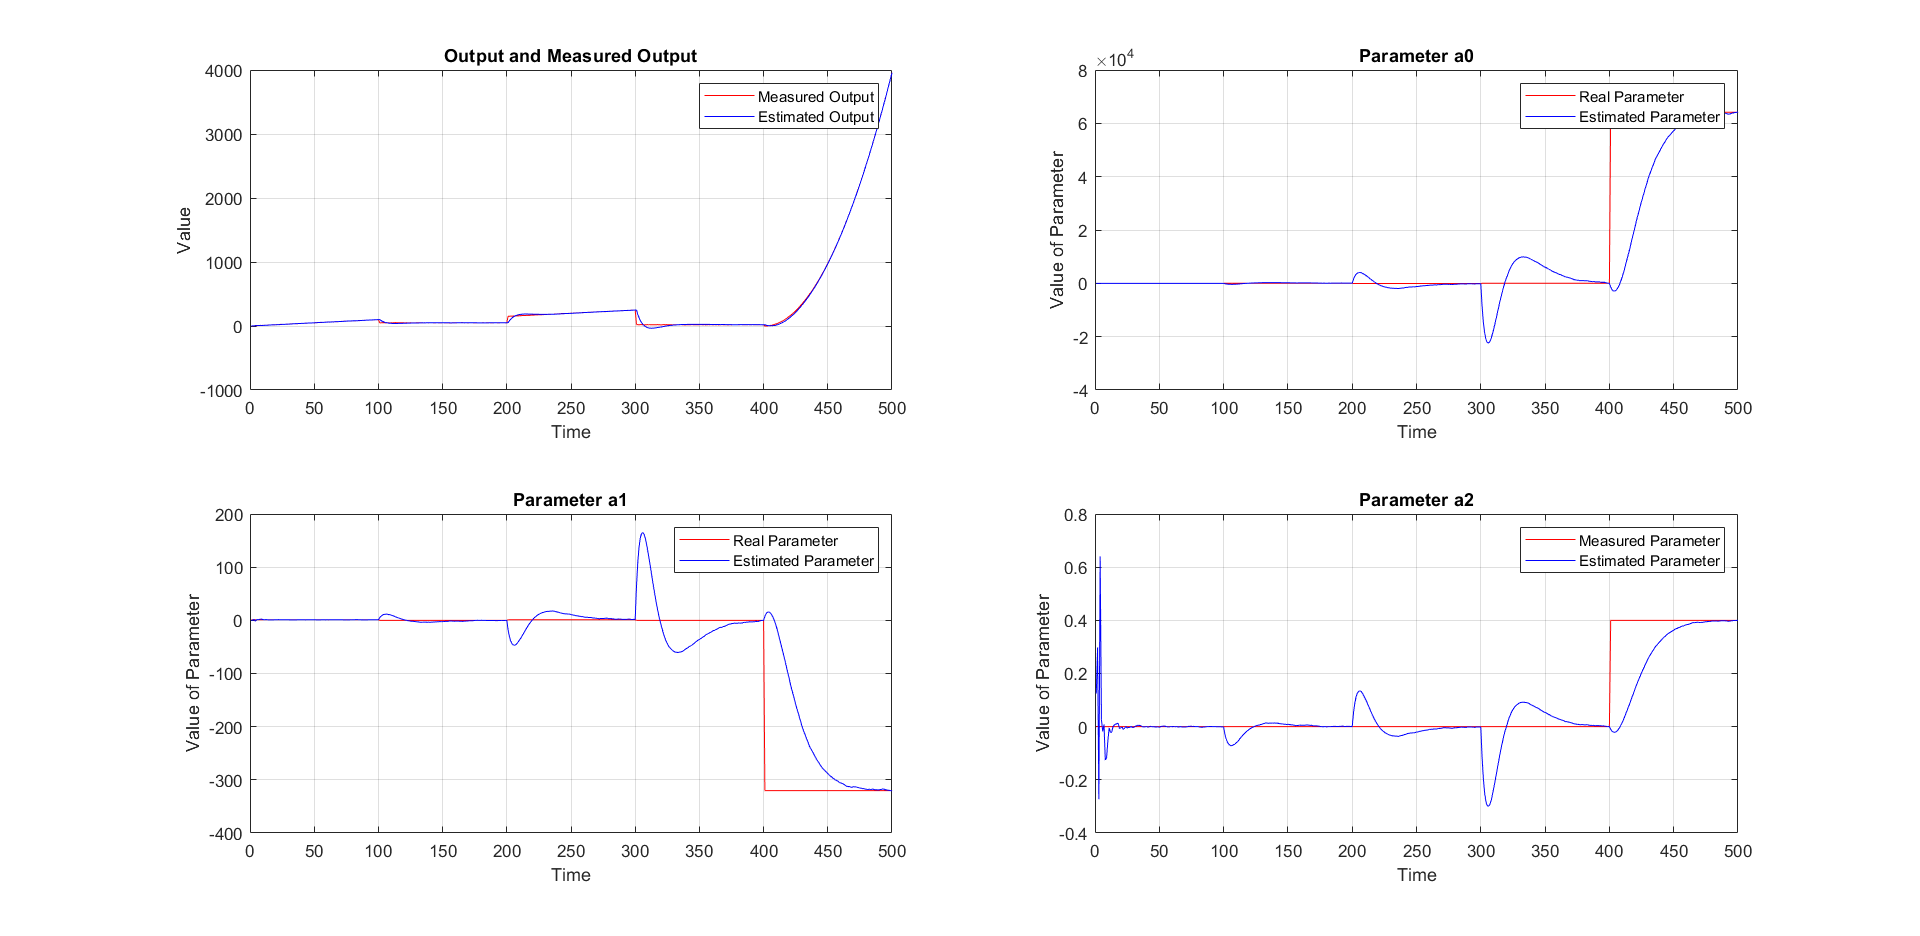
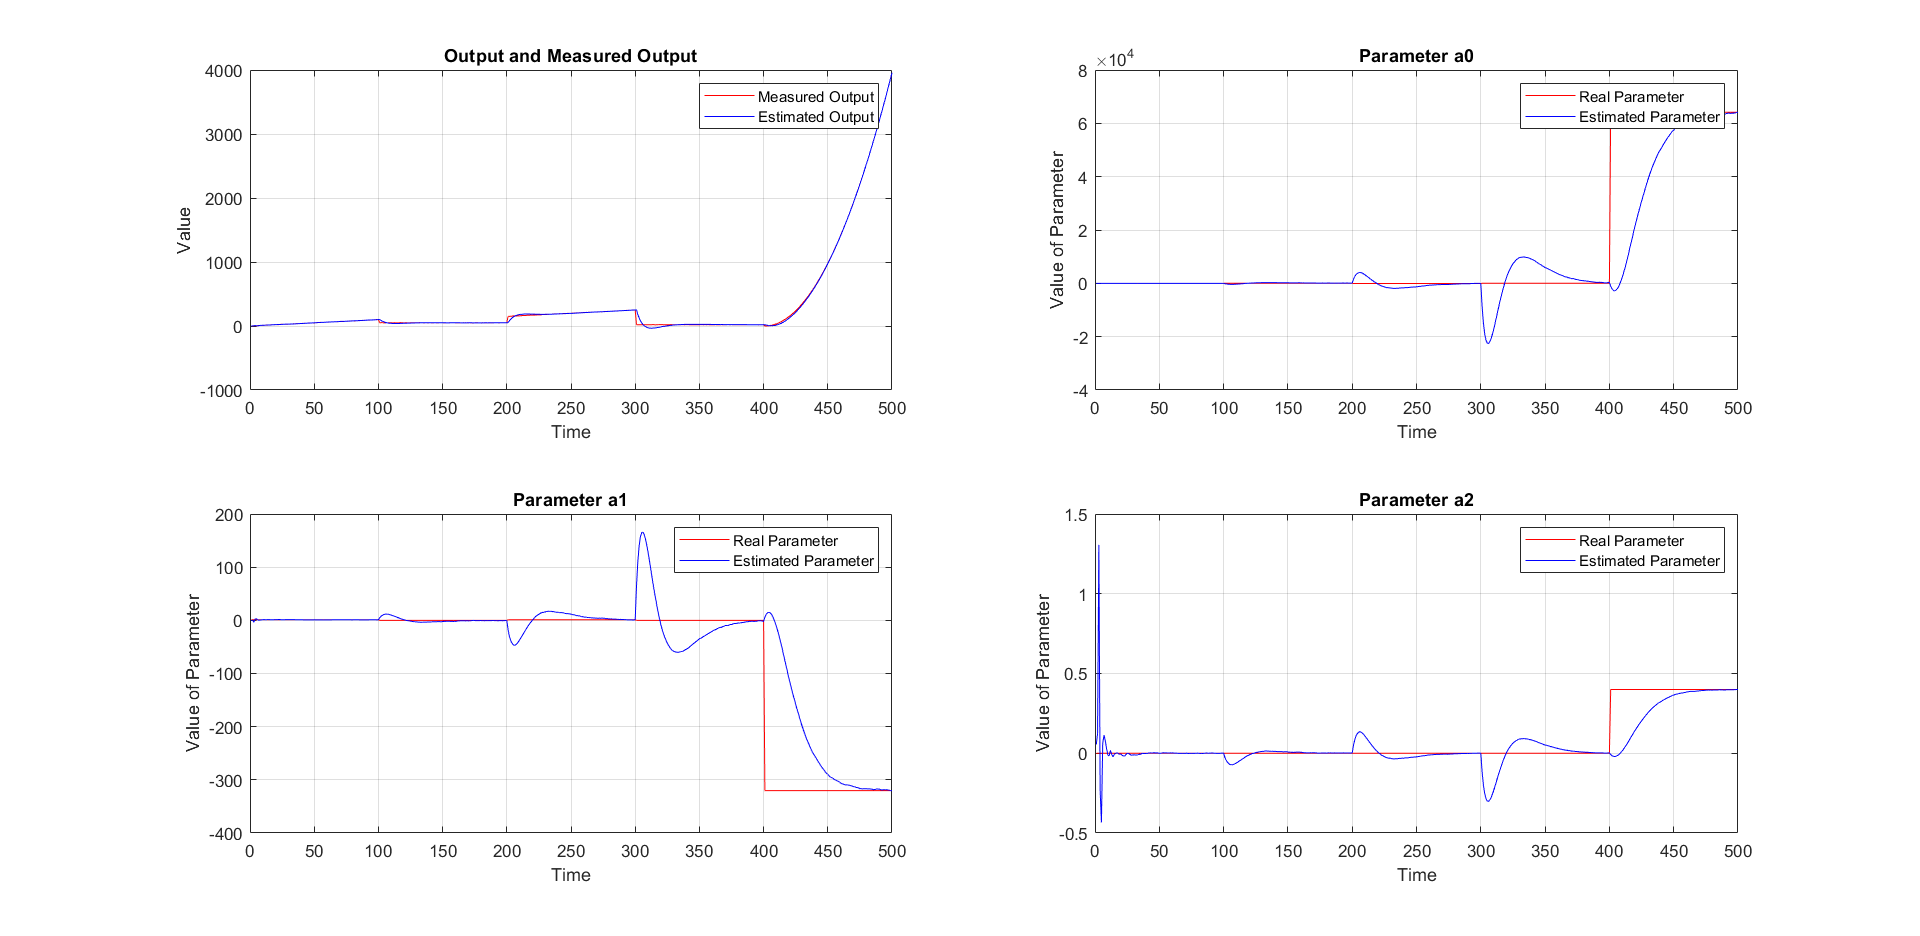
Corrections to "legend"

diff --git a/MATLAB/code/Test3.m b/MATLAB/code/Test3.m
@@ -68,7 +68,7 @@ plot(numSample,theta_full(:,1),'b-')
 xlabel('Time');
 ylabel('Value of Parameter');
 title('Parameter a2');
-legend('Measured Parameter','Estimated Parameter');
+legend('Real Parameter','Estimated Parameter');
 grid on 
 
     
